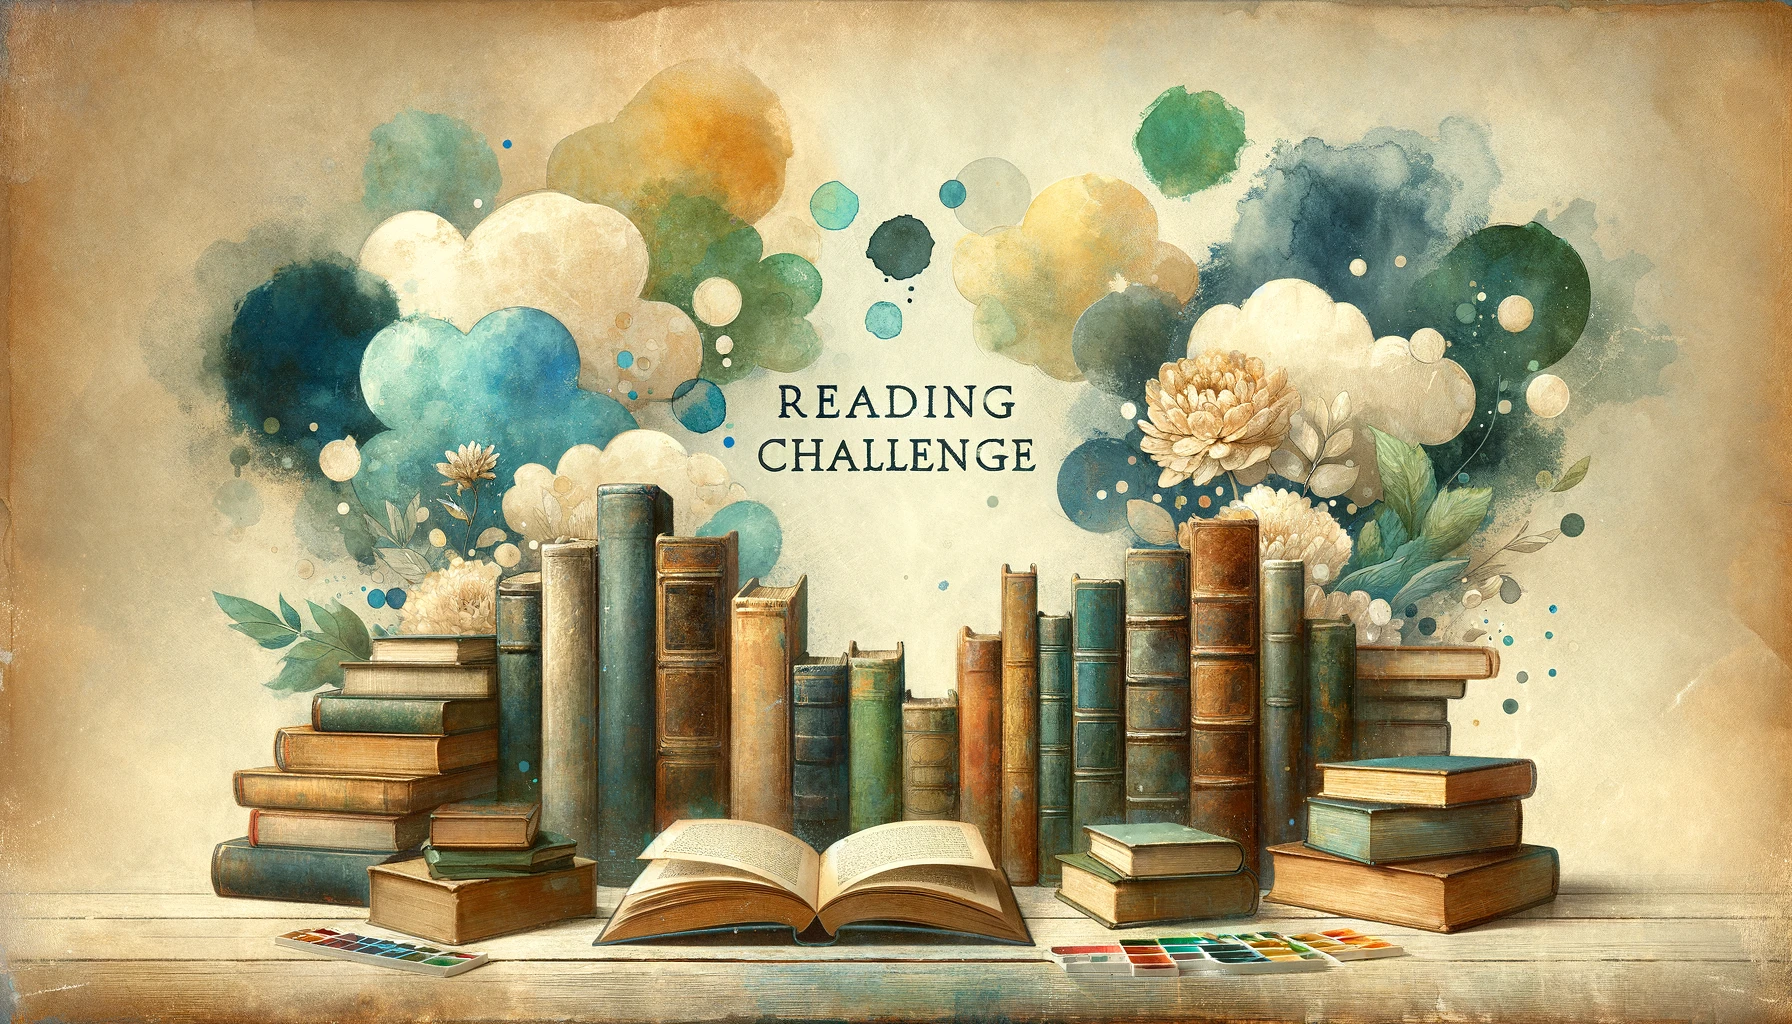
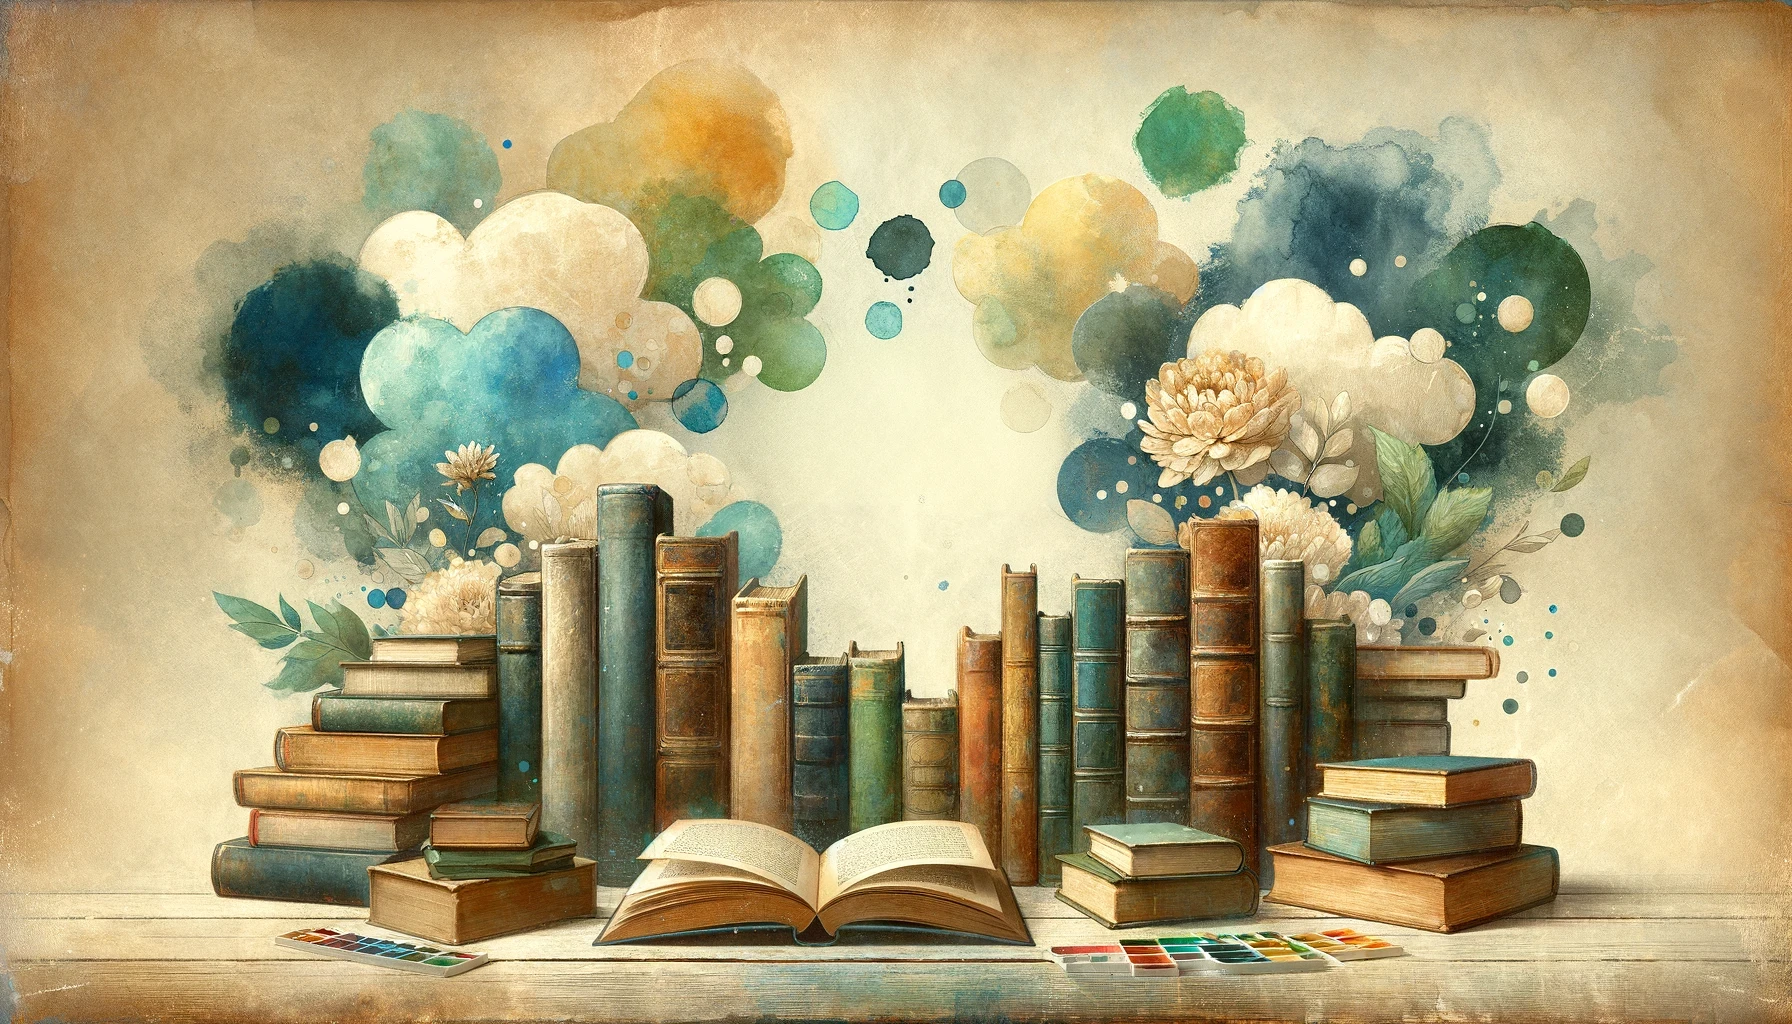
hero image styling

Changed region(s): [[0.375, 0.3125, 0.5938, 0.4688]]

diff --git a/frontend/src/styles/output.css b/frontend/src/styles/output.css
@@ -545,6 +545,239 @@ video {
   --tw-contain-style:  ;
 }
 
+.m-4 {
+  margin: 1rem;
+}
+
+.mx-auto {
+  margin-left: auto;
+  margin-right: auto;
+}
+
+.my-auto {
+  margin-top: auto;
+  margin-bottom: auto;
+}
+
+.mt-4 {
+  margin-top: 1rem;
+}
+
+.flex {
+  display: flex;
+}
+
+.h-12 {
+  height: 3rem;
+}
+
+.h-20 {
+  height: 5rem;
+}
+
+.h-96 {
+  height: 24rem;
+}
+
+.w-1\/3 {
+  width: 33.333333%;
+}
+
+.w-32 {
+  width: 8rem;
+}
+
+.w-96 {
+  width: 24rem;
+}
+
+.w-full {
+  width: 100%;
+}
+
+.min-w-32 {
+  min-width: 8rem;
+}
+
 .grow {
   flex-grow: 1;
+}
+
+.flex-col {
+  flex-direction: column;
+}
+
+.items-center {
+  align-items: center;
+}
+
+.justify-start {
+  justify-content: flex-start;
+}
+
+.justify-end {
+  justify-content: flex-end;
+}
+
+.justify-center {
+  justify-content: center;
+}
+
+.justify-between {
+  justify-content: space-between;
+}
+
+.gap-3 {
+  gap: 0.75rem;
+}
+
+.gap-4 {
+  gap: 1rem;
+}
+
+.rounded-full {
+  border-radius: 9999px;
+}
+
+.rounded-lg {
+  border-radius: 0.5rem;
+}
+
+.rounded-l-lg {
+  border-top-left-radius: 0.5rem;
+  border-bottom-left-radius: 0.5rem;
+}
+
+.bg-amber-500 {
+  --tw-bg-opacity: 1;
+  background-color: rgb(245 158 11 / var(--tw-bg-opacity));
+}
+
+.bg-teal-200 {
+  --tw-bg-opacity: 1;
+  background-color: rgb(153 246 228 / var(--tw-bg-opacity));
+}
+
+.bg-teal-700 {
+  --tw-bg-opacity: 1;
+  background-color: rgb(15 118 110 / var(--tw-bg-opacity));
+}
+
+.bg-teal-800 {
+  --tw-bg-opacity: 1;
+  background-color: rgb(17 94 89 / var(--tw-bg-opacity));
+}
+
+.bg-white {
+  --tw-bg-opacity: 1;
+  background-color: rgb(255 255 255 / var(--tw-bg-opacity));
+}
+
+.bg-gradient-to-r {
+  background-image: linear-gradient(to right, var(--tw-gradient-stops));
+}
+
+.bg-hero-image {
+  background-image: url('/src/assets/hero.webp');
+}
+
+.from-indigo-500 {
+  --tw-gradient-from: #6366f1 var(--tw-gradient-from-position);
+  --tw-gradient-to: rgb(99 102 241 / 0) var(--tw-gradient-to-position);
+  --tw-gradient-stops: var(--tw-gradient-from), var(--tw-gradient-to);
+}
+
+.via-purple-500 {
+  --tw-gradient-to: rgb(168 85 247 / 0)  var(--tw-gradient-to-position);
+  --tw-gradient-stops: var(--tw-gradient-from), #a855f7 var(--tw-gradient-via-position), var(--tw-gradient-to);
+}
+
+.to-pink-500 {
+  --tw-gradient-to: #ec4899 var(--tw-gradient-to-position);
+}
+
+.bg-cover {
+  background-size: cover;
+}
+
+.bg-center {
+  background-position: center;
+}
+
+.p-2 {
+  padding: 0.5rem;
+}
+
+.p-4 {
+  padding: 1rem;
+}
+
+.p-5 {
+  padding: 1.25rem;
+}
+
+.px-10 {
+  padding-left: 2.5rem;
+  padding-right: 2.5rem;
+}
+
+.px-5 {
+  padding-left: 1.25rem;
+  padding-right: 1.25rem;
+}
+
+.pb-10 {
+  padding-bottom: 2.5rem;
+}
+
+.pb-4 {
+  padding-bottom: 1rem;
+}
+
+.text-center {
+  text-align: center;
+}
+
+.font-playfair {
+  font-family: "Playfair Display", serif;
+}
+
+.text-2xl {
+  font-size: 1.5rem;
+  line-height: 2rem;
+}
+
+.text-4xl {
+  font-size: 2.25rem;
+  line-height: 2.5rem;
+}
+
+.font-bold {
+  font-weight: 700;
+}
+
+.tracking-wide {
+  letter-spacing: 0.025em;
+}
+
+.text-green-700 {
+  --tw-text-opacity: 1;
+  color: rgb(21 128 61 / var(--tw-text-opacity));
+}
+
+.text-white {
+  --tw-text-opacity: 1;
+  color: rgb(255 255 255 / var(--tw-text-opacity));
+}
+
+.hover\:scale-105:hover {
+  --tw-scale-x: 1.05;
+  --tw-scale-y: 1.05;
+  transform: translate(var(--tw-translate-x), var(--tw-translate-y)) rotate(var(--tw-rotate)) skewX(var(--tw-skew-x)) skewY(var(--tw-skew-y)) scaleX(var(--tw-scale-x)) scaleY(var(--tw-scale-y));
+}
+
+@media (min-width: 1024px) {
+  .lg\:w-2\/3 {
+    width: 66.666667%;
+  }
 }

diff --git a/frontend/src/components/LoggedOutFrontPage.js b/frontend/src/components/LoggedOutFrontPage.js
@@ -4,15 +4,18 @@ import reader from '.././assets/reader.webp';
 import privacy from '.././assets/privacy.webp';
 import checkboxicon from '.././assets/checkboxicon.webp';
 import Icon from "./smallReusables/Icon";
-import { Link } from "react-router-dom";
+import LinkButton from './smallReusables/LinkButton';
 
 export default function LoggedOutFrontPage() {
     return (
         <div>
-            <div className="bg-hero-image bg-cover bg-center w-full h-96 flex justify-center">
-                <div className="my-auto">
-                    <EasyLink to={`register`} name="Sign up"/>
-                    <EasyLink to={`login`} name="Log in"/>
+            <div className="bg-hero-image bg-cover bg-center w-full h-96 "> {/*hero image background*/}
+                <div className="bg-amber-50 w-full h-full bg-opacity-50 m-0 flex justify-center text-center"> {/*transparent overlay*/}
+                    <div className="my-auto w-96">
+                        <h1 className="text-4xl font-bold p-5 text-amber-900 font-playfair ">Challenge yourself to read more </h1>
+                        <p className="text-xl pb-5 font-merriweather text-teal-800">A distraction-free way to track your reading progress and what books you love</p>
+                        <LinkButton to={`register`} name="Create a free account" />
+                    </div>
                 </div>
             </div>
 
@@ -26,7 +29,7 @@ export default function LoggedOutFrontPage() {
 
                     <Icon img={privacy}>Anti-social-media website without distractions</Icon>
 
-                    <button type="button" className="bg-amber-500 p-4 m-4 rounded-full w-1/3 mx-auto"><EasyLink to={`register`} name="Sign up"/></button>
+                    <button type="button" className="bg-amber-500 p-4 m-4 rounded-full w-1/3 mx-auto"><EasyLink to={`register`} name="Create a free account"/></button>
                 </div>
             </div>
 

diff --git a/frontend/src/components/smallReusables/Button.js b/frontend/src/components/smallReusables/Button.js
@@ -1,13 +1,13 @@
-export default function Button({type, name, optionalValue, optionalDisabledCondition, func}) {
+export default function Button({type, name, optionalValue, optionalDisabledCondition, func, children}) {
     return (
         <button 
-            className=""
+            className="bg-teal-800 text-white rounded-full min-w-32 h-12 px-5 mx-auto font-bold tracking-wide font-playfair hover:scale-105 text-center"
             type={type} 
             name={name} 
             value={optionalValue} 
             disabled={optionalDisabledCondition} 
             onClick={func}>
-                {name}
+                {children ? children : name}
         </button>
     );
 }

diff --git a/frontend/src/components/Navbar.js b/frontend/src/components/Navbar.js
@@ -10,10 +10,11 @@ export default function Navbar() {
     }
 
     return (
-        <nav className="sticky top-0 bg-teal-700">
+        <nav className="bg-teal-700 h-20 px-10 gap-3 flex justify-between font-bold tracking-wide font-playfair">
                 <div className="flex justify-start items-center">
                     {<EasyLink to="/" name="Reading challenge" />}
-
+                </div>
+                <div className="flex justify-end items-center">
                     {!isAuthenticated && <EasyLink to="register" name="Register" />}
                     {!isAuthenticated && <EasyLink to="login" name="Log in" />}
 

diff --git a/frontend/tailwind.config.js b/frontend/tailwind.config.js
@@ -2,8 +2,14 @@
 module.exports = {
   content: ["./src/**/*.{html,js}"],
   theme: {
-    backgroundImage: {
-      'hero-image': "url('/src/assets/hero.webp')",
+    extend: {
+      backgroundImage: {
+        'hero-image': "url('/src/assets/hero.webp')",
+      },
+      fontFamily: {
+        playfair: ['"Playfair Display"', 'serif'],
+        merriweather: ['Merriweather', 'serif'],
+      },
     }
   },
   plugins: [],

diff --git a/frontend/src/styles/input.css b/frontend/src/styles/input.css
@@ -1,3 +1,7 @@
 @tailwind base;
 @tailwind components;
 @tailwind utilities;
+
+@import url('https://fonts.googleapis.com/css2?family=Playfair+Display:ital,wght@0,400..900;1,400..900&display=swap');
+
+@import url('https://fonts.googleapis.com/css2?family=Merriweather:ital,wght@0,300;0,400;0,700;0,900;1,300;1,400;1,700;1,900&family=Playfair+Display:ital,wght@0,400..900;1,400..900&display=swap');

diff --git a/frontend/src/components/smallReusables/LinkButton.js b/frontend/src/components/smallReusables/LinkButton.js
@@ -1,0 +1,10 @@
+import Button from "./Button";
+import EasyLink from "./EasyLink";
+
+export default function LinkButton({to, name}) {
+    return (
+        <Button>
+            <EasyLink to={to} name={name}/>
+        </Button>
+    );
+}
